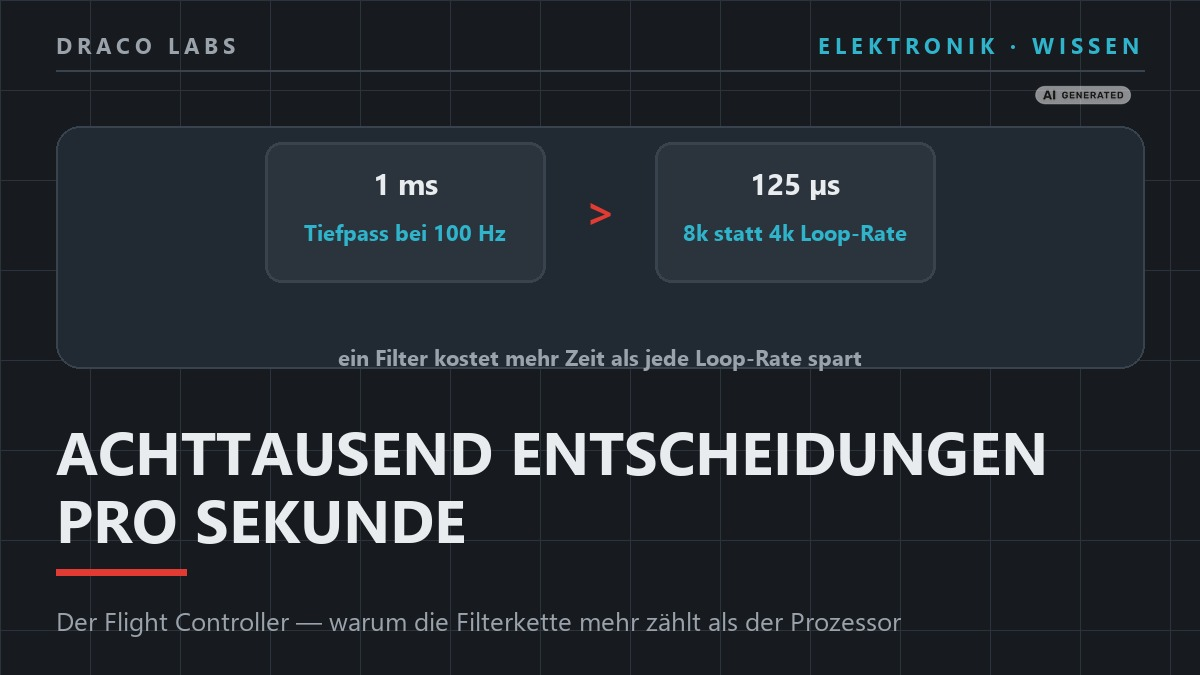
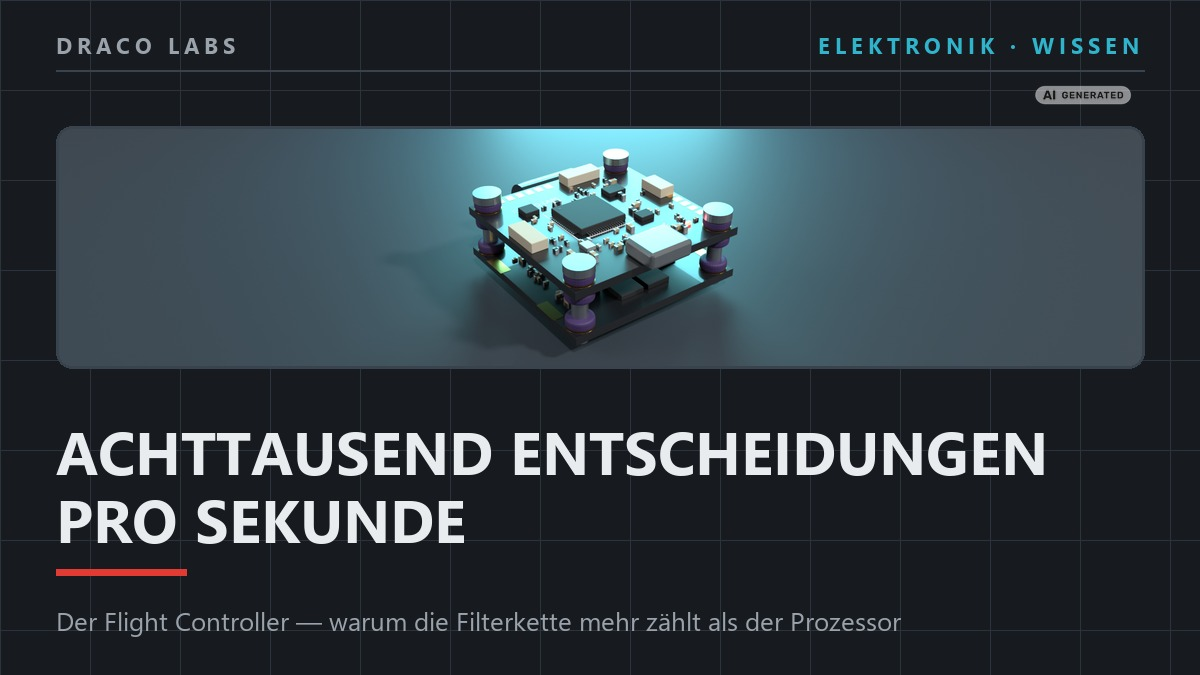
FC-Ratgeber: neuer Aufmacher (Render eines Flight-Controller-Stacks)

Changed region(s): [[0.0308, 0.1867, 0.9558, 0.56]]

diff --git a/index.html b/index.html
@@ -216,9 +216,10 @@
     <!-- ratgeber:start -->
     <div class="rg-karussell">
       <a class="rg-kachel" href="ratgeber-flight-controller.html">
-        <img src="assets/ratgeber/flight-controller-hook.jpg" alt="Aufmacher im Draco-Labs-Look: „Achttausend Entscheidungen pro Sekunde“, darüber zwei
-             Karten: 1 ms für einen Tiefpass bei 100 Hz gegen 125 µs für 8k statt 4k
-             Loop-Rate.  Mit KI erstellt, Label „AI GENERATED“ im Bild."
+        <img src="assets/ratgeber/flight-controller-hook.jpg" alt="Aufmacher im Draco-Labs-Look: „Achttausend Entscheidungen pro Sekunde“, darüber das
+             Rendering eines Flight-Controller-Stacks aus zwei Platinen mit
+             Gummitüllen in cyanfarbenem Licht.  Mit KI erstellt, Label „AI GENERATED“
+             im Bild."
              width="1200" height="675" loading="lazy">
         <div class="rg-text">
           <div class="rg-titel">Achttausend Entscheidungen pro Sekunde</div>
